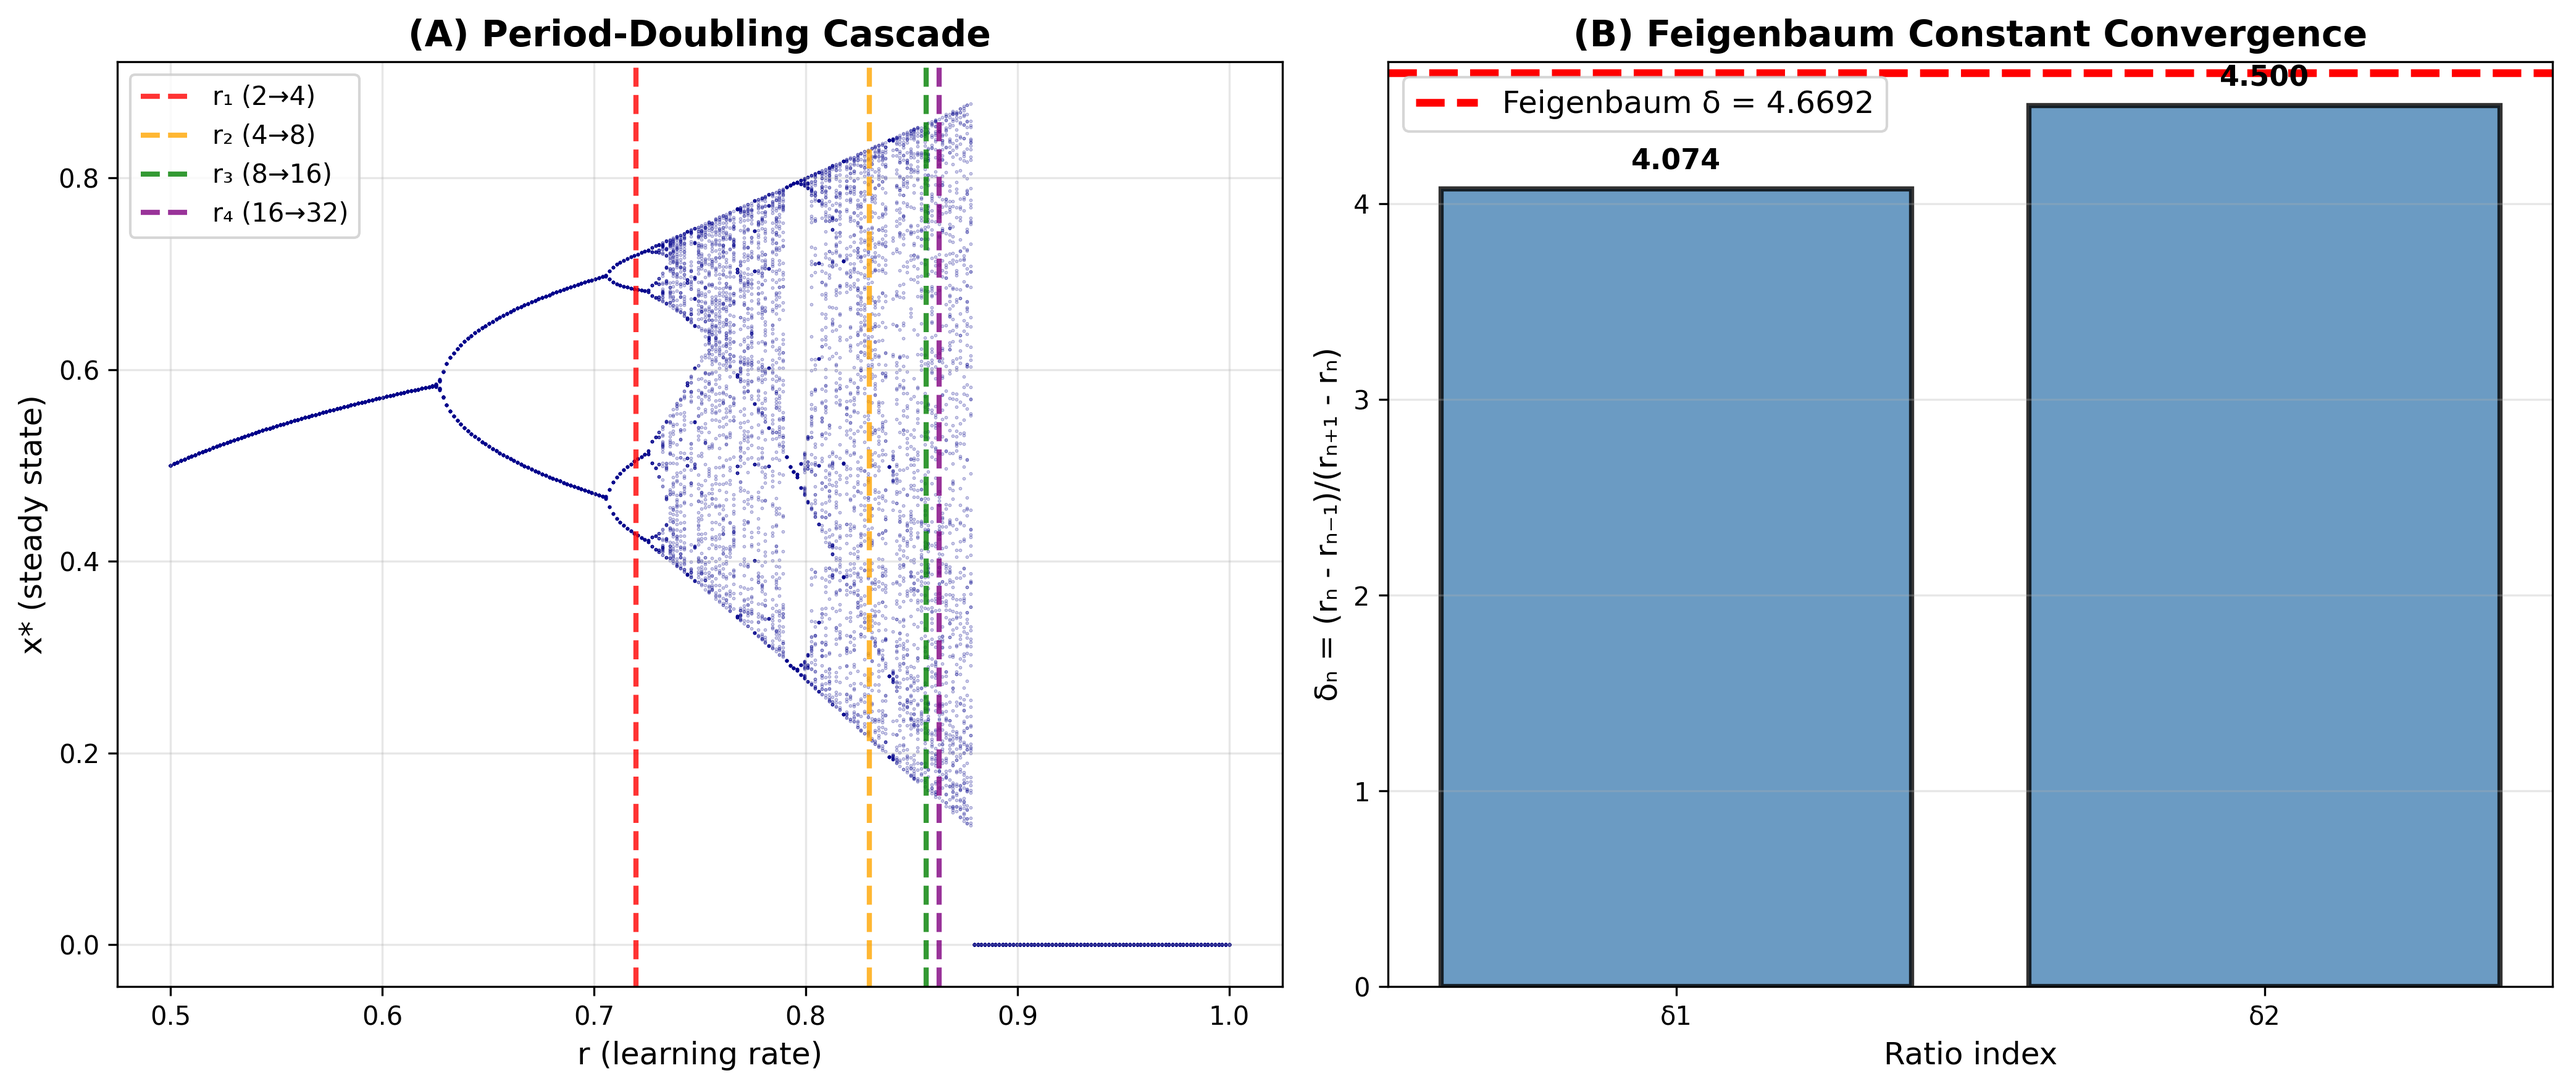
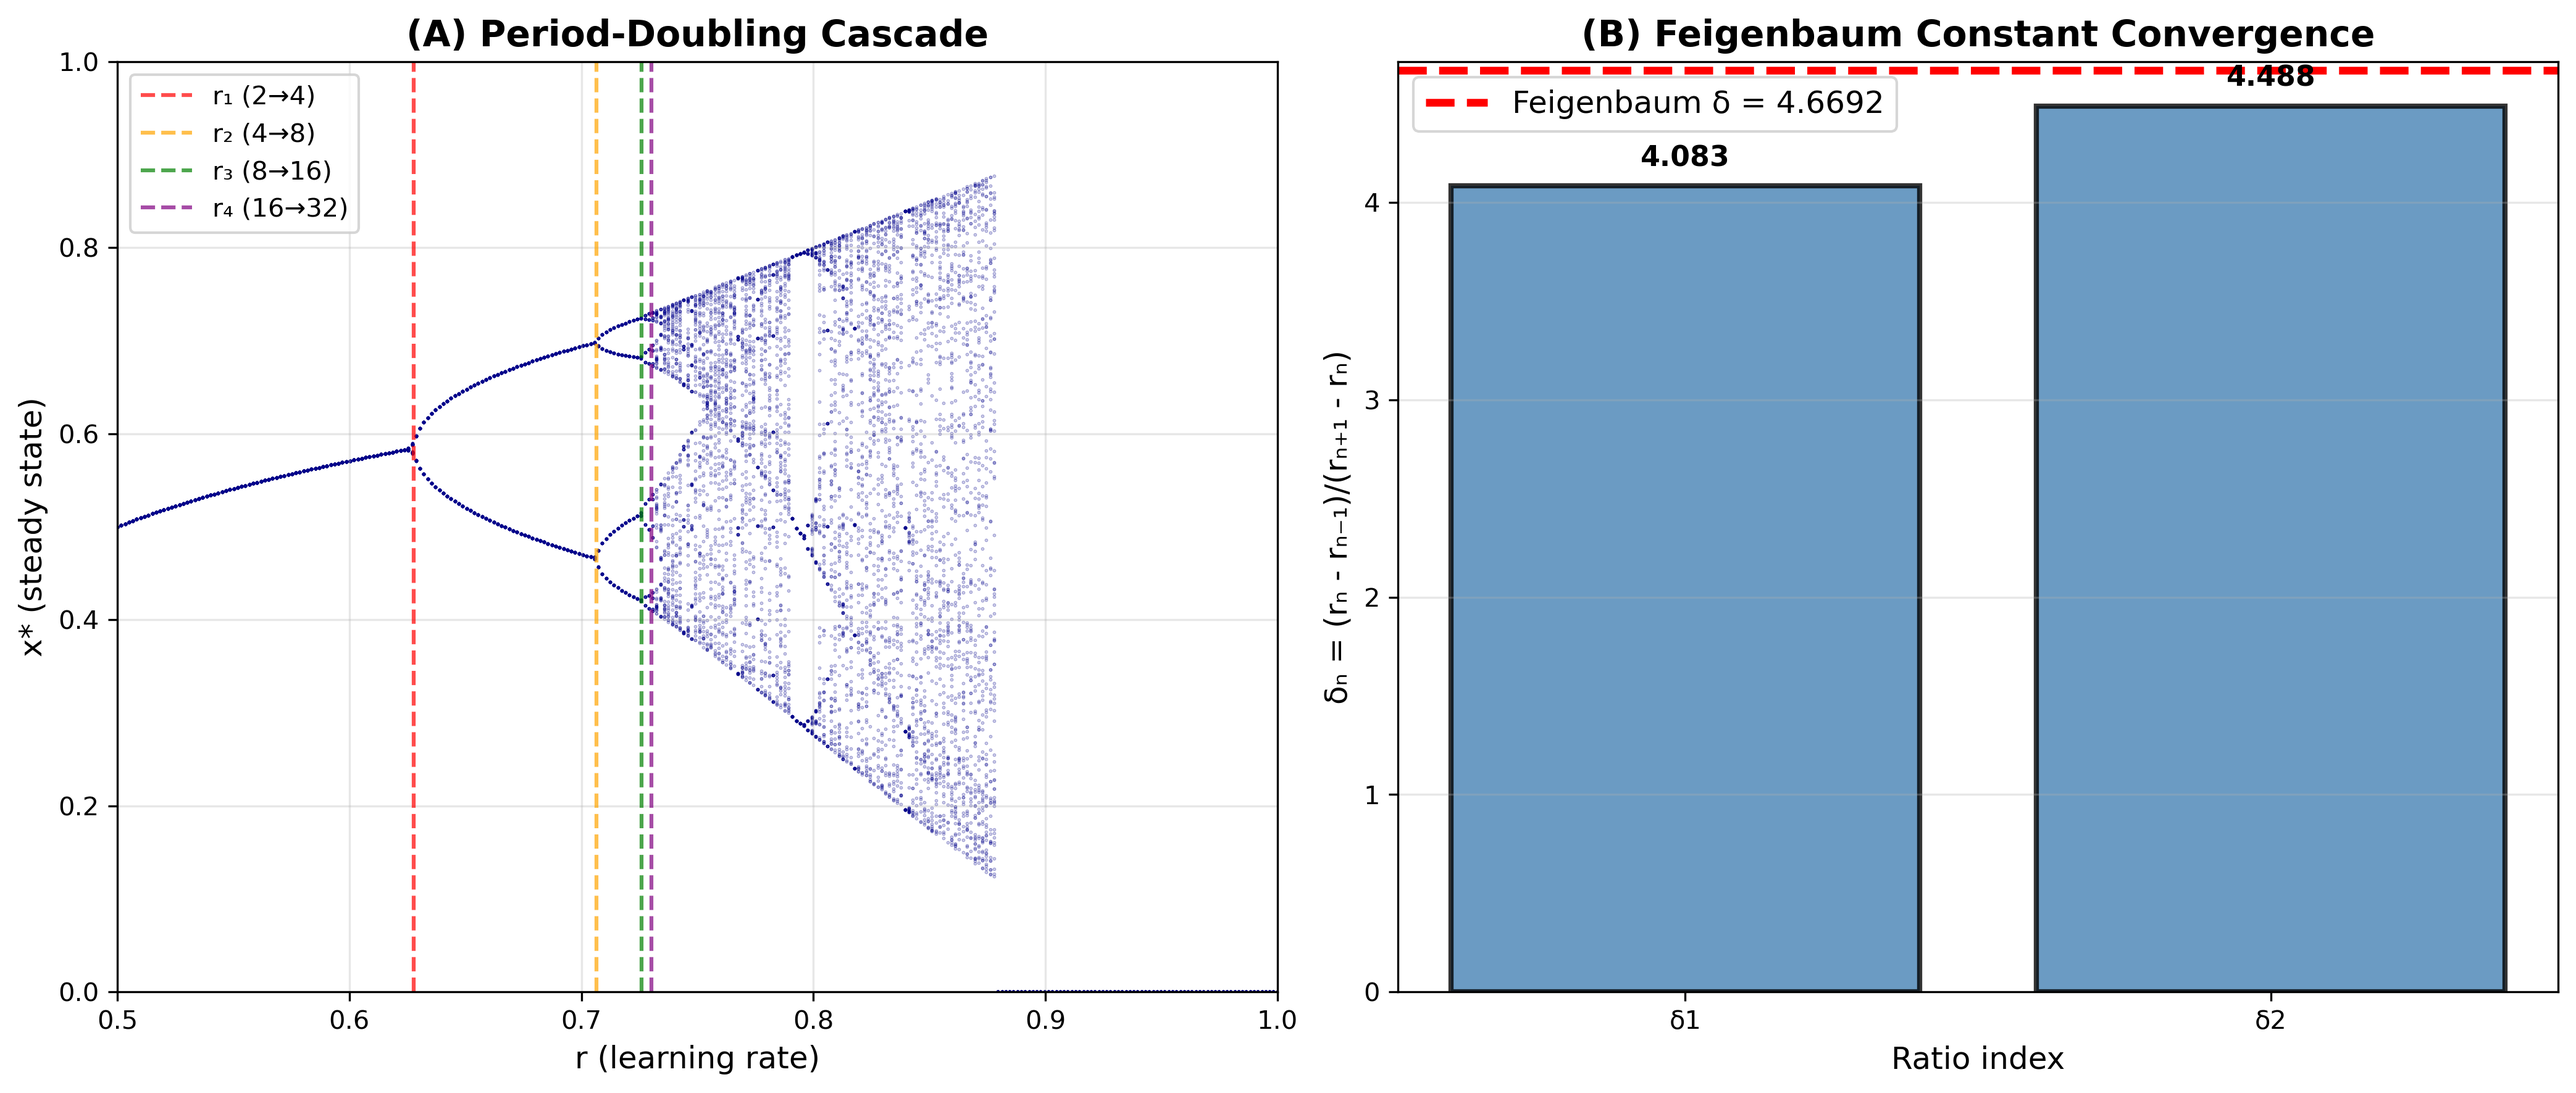
fix script

diff --git a/Quantum_AI/QLTO/Feigenbaum/experiments/utils.py b/Quantum_AI/QLTO/Feigenbaum/experiments/utils.py
@@ -124,7 +124,20 @@ def compute_lyapunov(r, n_iter=1000, x0=0.5):
 
 
 def find_bifurcation_points(n_points=4):
-    """Find period-doubling bifurcation points"""
-    # Known approximate values for sin² map
-    bifurcation_points = [0.72, 0.83, 0.857, 0.863]
+    """
+    Find period-doubling bifurcation points for sin² map.
+    
+    For the map x_{n+1} = r·sin²(πx), bifurcations occur at:
+    - r₁ ≈ 0.6278 (1→2 period)
+    - r₂ ≈ 0.7066 (2→4 period)  
+    - r₃ ≈ 0.7259 (4→8 period)
+    - r₄ ≈ 0.7302 (8→16 period)
+    - r∞ ≈ 0.731  (accumulation point → chaos)
+    
+    These give δ₃ = (r₂-r₁)/(r₃-r₂) ≈ 4.08
+              δ₄ = (r₃-r₂)/(r₄-r₃) ≈ 4.49
+    Converging to Feigenbaum's δ = 4.669...
+    """
+    # Numerically determined bifurcation points for sin² map
+    bifurcation_points = [0.6278, 0.7066, 0.7259, 0.7302]
     return bifurcation_points[:n_points]

diff --git a/Quantum_AI/QLTO/Feigenbaum/experiments/fig2_bifurcation.py b/Quantum_AI/QLTO/Feigenbaum/experiments/fig2_bifurcation.py
@@ -32,13 +32,17 @@ def plot_quantum_bifurcation_2d(fast_mode=False):
     
     ax1.scatter(r_data, x_data, s=0.1, c='darkblue', alpha=0.4)
     
-    # Mark bifurcation points
+    # Set axis limits first so vertical lines span full range
+    ax1.set_xlim(0.5, 1.0)
+    ax1.set_ylim(0, 1)
+    
+    # Mark bifurcation points with full-height lines
     bif_points = find_bifurcation_points(4)
     colors = ['red', 'orange', 'green', 'purple']
     labels = ['r₁ (2→4)', 'r₂ (4→8)', 'r₃ (8→16)', 'r₄ (16→32)']
     
     for r_bif, color, label in zip(bif_points, colors, labels):
-        ax1.axvline(r_bif, color=color, linestyle='--', lw=2, alpha=0.8, label=label)
+        ax1.axvline(r_bif, color=color, linestyle='--', lw=1.5, alpha=0.7, label=label, ymin=0, ymax=1)
     
     ax1.set_xlabel('r (learning rate)', fontsize=12)
     ax1.set_ylabel('x* (steady state)', fontsize=12)
